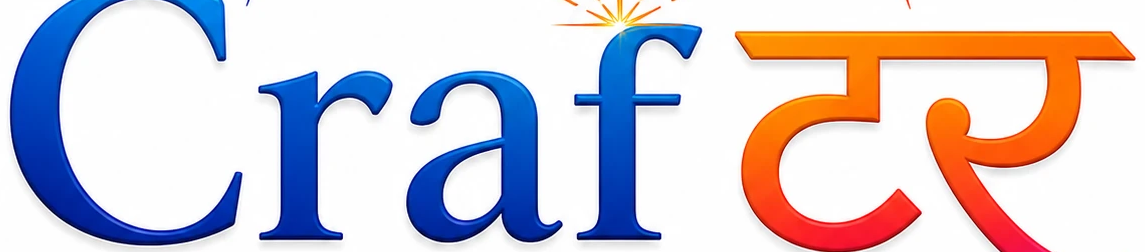
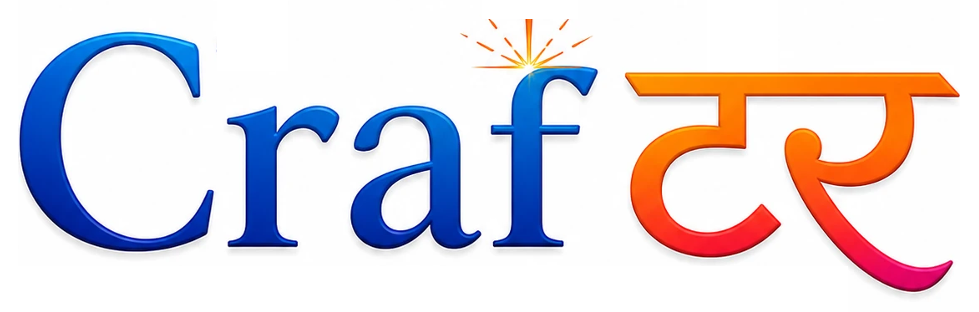
Refit the wordmark, add "Studio" to the lockup, enforce a single instance
Wordmark
- The shipped wordmark was a too-tight crop of the full logo: ink ran off
  both the top and bottom edges, so the letterforms were cut wherever it
  was displayed. Re-extracted from logo.png with the circle arcs, the
  tool-icon row and the laser-head stub masked out, then trimmed to the
  ink and padded evenly (19-20px on every side).
- Aspect changed 4.54:1 to 3.14:1, so display heights go 28px to 31px in
  the app and 32px on the site; the same pixel height would have rendered
  the letters smaller.

Lockup
- "Studio" is set as text beside the mark rather than redrawn into the
  artwork, which keeps the Craf/टर device intact. It uses the wordmark's
  own blue, which reads 10.6:1 on the white plate.
- The plate stays. That blue measures 1.51:1 against the dark top bar, so
  dropping the white background would make half the mark disappear on
  every dark surface. The site now gets the same rounded plate the app
  already had.

Single instance
- Two copies sharing one userData directory fight over the Local Storage
  lock. The second opens with empty settings — no machine profile, no
  layers, no material presets — and can write that empty state back over
  the first. Found while running two builds side by side during testing.
- requestSingleInstanceLock now focuses the existing window instead.
  Verified: a second launch exits 0 immediately, the process count stays
  at one, and the running window keeps its profile.

diff --git a/docs/index.html b/docs/index.html
@@ -35,7 +35,12 @@
   header{position:sticky; top:0; z-index:10; background:rgba(23,25,30,.86);
     backdrop-filter:blur(8px); border-bottom:1px solid var(--line)}
   .bar{display:flex; align-items:center; gap:20px; height:62px}
-  .bar img{height:30px; width:auto; display:block}
+  /* The wordmark is dark blue on white; on the dark header it keeps its own
+     plate because that blue reads 1.5:1 against the background without it. */
+  .brandmark{display:flex; align-items:center; gap:8px; background:#fff;
+    border-radius:9px; padding:6px 12px}
+  .brandmark img{height:32px; width:auto; display:block}
+  .brandmark span{font-size:19px; font-weight:650; color:#0030a8; letter-spacing:.2px}
   nav{margin-left:auto; display:flex; gap:22px; align-items:center; flex-wrap:wrap}
   nav a{color:var(--muted); font-size:14.5px; font-weight:600}
   nav a:hover{color:var(--text); text-decoration:none}
@@ -119,7 +124,10 @@
 
 <header>
   <div class="wrap bar">
-    <img src="assets/wordmark.png" alt="Crafter Studio">
+    <div class="brandmark">
+      <img src="assets/wordmark.png" alt="Crafter">
+      <span>Studio</span>
+    </div>
     <nav>
       <a href="#features">Features</a>
       <a href="#ai">AI</a>

diff --git a/src/css/app.css b/src/css/app.css
@@ -36,8 +36,10 @@ button { cursor: pointer; }
 #topbar > .spacer, #topbar > .device-chip { flex-shrink: 1; min-width: 0; }
 @media (max-width: 1640px) { #topbar .tb-group.align { display: none; } }
 @media (max-width: 1320px) { #topbar .tb-group.objops { display: none; } }
-.brand { display: flex; align-items: center; margin-right: 8px; height: 38px; padding: 0 10px; background: #fff; border-radius: 8px; cursor: pointer; }
-.brand img { height: 28px; display: block; }
+.brand { display: flex; align-items: center; gap: 7px; margin-right: 8px; height: 38px; padding: 0 11px; background: #fff; border-radius: 8px; cursor: pointer; }
+.brand img { height: 31px; display: block; }
+/* Sits on the white plate, so it uses the wordmark's own blue (10.6:1 on white). */
+.brand-suffix { font-size: 18px; font-weight: 600; color: #0030a8; letter-spacing: .2px; }
 .logo-hero { display: block; margin: 0 auto 12px; width: 220px; height: 220px; border-radius: 16px; background: #fff; }
 .tb-group { display: flex; align-items: center; gap: 2px; padding: 0 6px; border-right: 1px solid var(--line); }
 .tb-group:last-of-type { border-right: 0; }

diff --git a/main.js b/main.js
@@ -650,7 +650,24 @@ ipcMain.handle('ai:request', async (e, { id, system, user, maxTokens } = {}) => 
   }
 });
 
+// Two copies sharing one userData directory fight over the Local Storage lock: the
+// second starts with empty settings and can overwrite the first's machine profile,
+// layers and material presets. Focus the existing window instead of opening another.
+const gotTheLock = app.requestSingleInstanceLock();
+
+if (!gotTheLock) {
+  app.quit();
+} else {
+  app.on('second-instance', () => {
+    if (!win) return;
+    if (win.isMinimized()) win.restore();
+    win.show();
+    win.focus();
+  });
+}
+
 app.whenReady().then(() => {
+  if (!gotTheLock) return;
   buildMenu();
   createWindow();
   app.on('activate', () => {

diff --git a/src/js/ui.js b/src/js/ui.js
@@ -59,7 +59,9 @@ function buildTopbar() {
   const dev = state.device;
   const ctl = CONTROLLERS[dev.controller] || CONTROLLERS.grbl;
   tb.append(
-    h('div', { class: 'brand', title: 'About Crafter Studio', onClick: () => run('help.about') }, h('img', { src: 'assets/wordmark.png', alt: 'Crafter Studio' })),
+    h('div', { class: 'brand', title: 'About Crafter Studio', onClick: () => run('help.about') },
+      h('img', { src: 'assets/wordmark.png', alt: 'Crafter' }),
+      h('span', { class: 'brand-suffix' }, 'Studio')),
     h('div', { class: 'tb-group' },
       ibtn('new', 'New project (Ctrl+N)', () => run('file.new')),
       ibtn('open', 'Open project (Ctrl+O)', () => run('file.open')),
